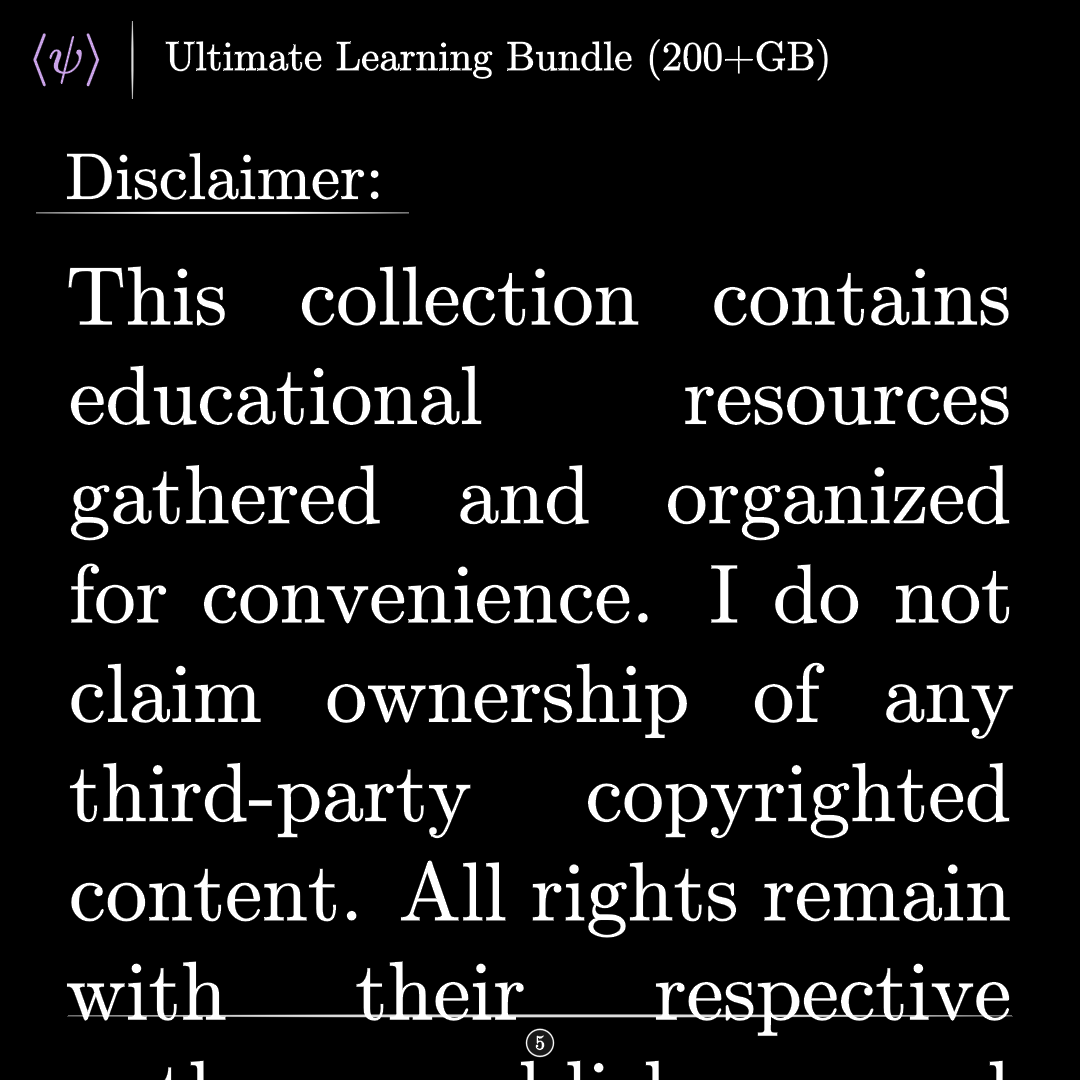
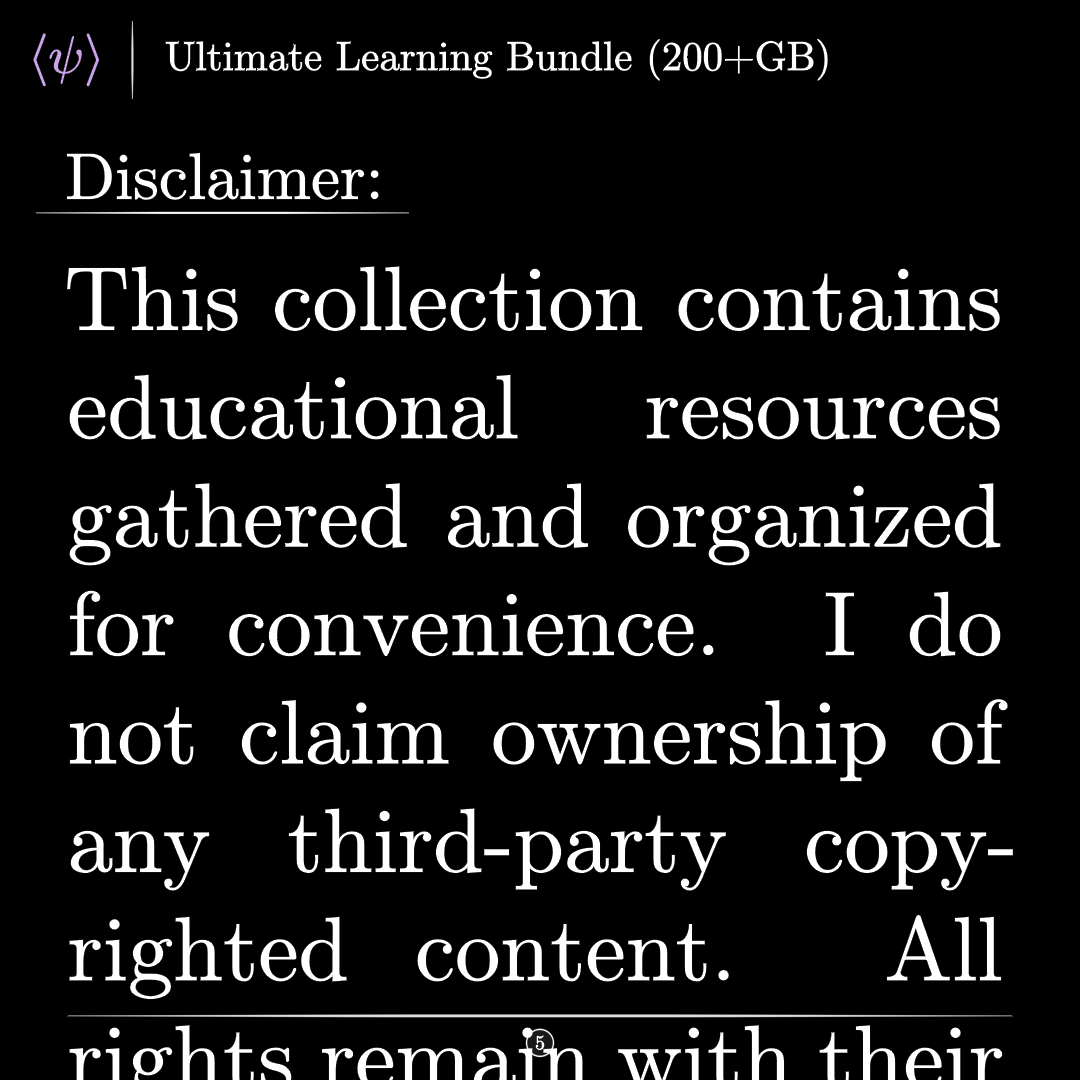
f

Changed region(s): [[0.0611, 0.3361, 0.9472, 1.0], [0.0611, 0.2444, 0.9472, 0.3056]]

diff --git a/test.py b/test.py
@@ -243,7 +243,7 @@ class Dis(PaidTemplate):
         self.add(t, under)
         dis = TexText(
             R"""
-            \begin{minipage}{0.33\textwidth}
+            \begin{minipage}{0.3\textwidth}
             This collection contains educational resources gathered and organized
             for convenience. I do not claim ownership of any third-party copyrighted
             content. All rights remain with their respective authors, publishers,
